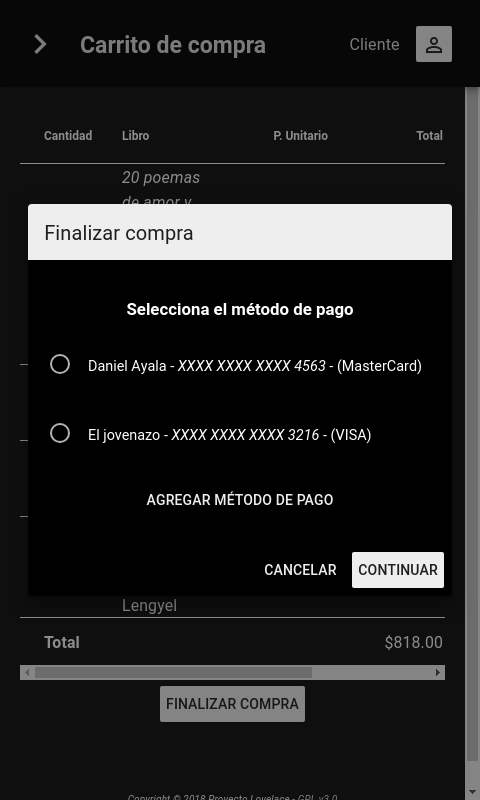
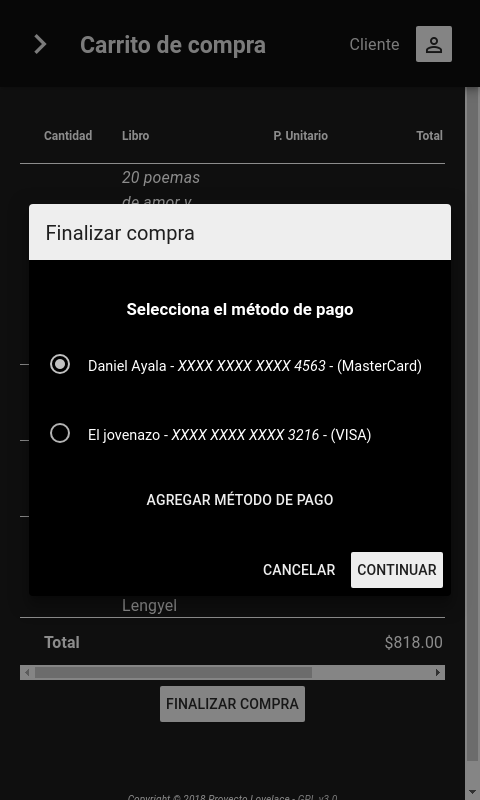
Actualización de capturas por no tener forma de pago por defecto

Changed region(s): [[0.5312, 0.6875, 0.9375, 0.7188], [0.0938, 0.2812, 0.4062, 0.3125], [0.0938, 0.4375, 0.1562, 0.4688]]

diff --git a/tienda/archivos_web/js/controladores/secundarios/finalizar_compra.controlador.js b/tienda/archivos_web/js/controladores/secundarios/finalizar_compra.controlador.js
@@ -93,10 +93,14 @@ tienda.controller('controladorFinalizarCompra', [
      * identificar ese caso y cerrar esta ventana (sin métodos de pago no se
      * debe poder continuar). */
 
-    if ($scope.tarjetas.length == 0) {
-      $scope.agregarMetodoDePago(undefined);
-    } else {
-      $scope.tarjeta = $scope.tarjetas[0];
-    }
+    api.obtenerTarjetas().then(function (respuesta) {
+      $scope.tarjetas = respuesta.data;
+      if ($scope.tarjetas.length == 0) {
+        $scope.agregarMetodoDePago(undefined);
+      } else {
+        $scope.temporal.tarjeta = $scope.tarjetas[0];
+      }
+    });
+
   }
 ]);
